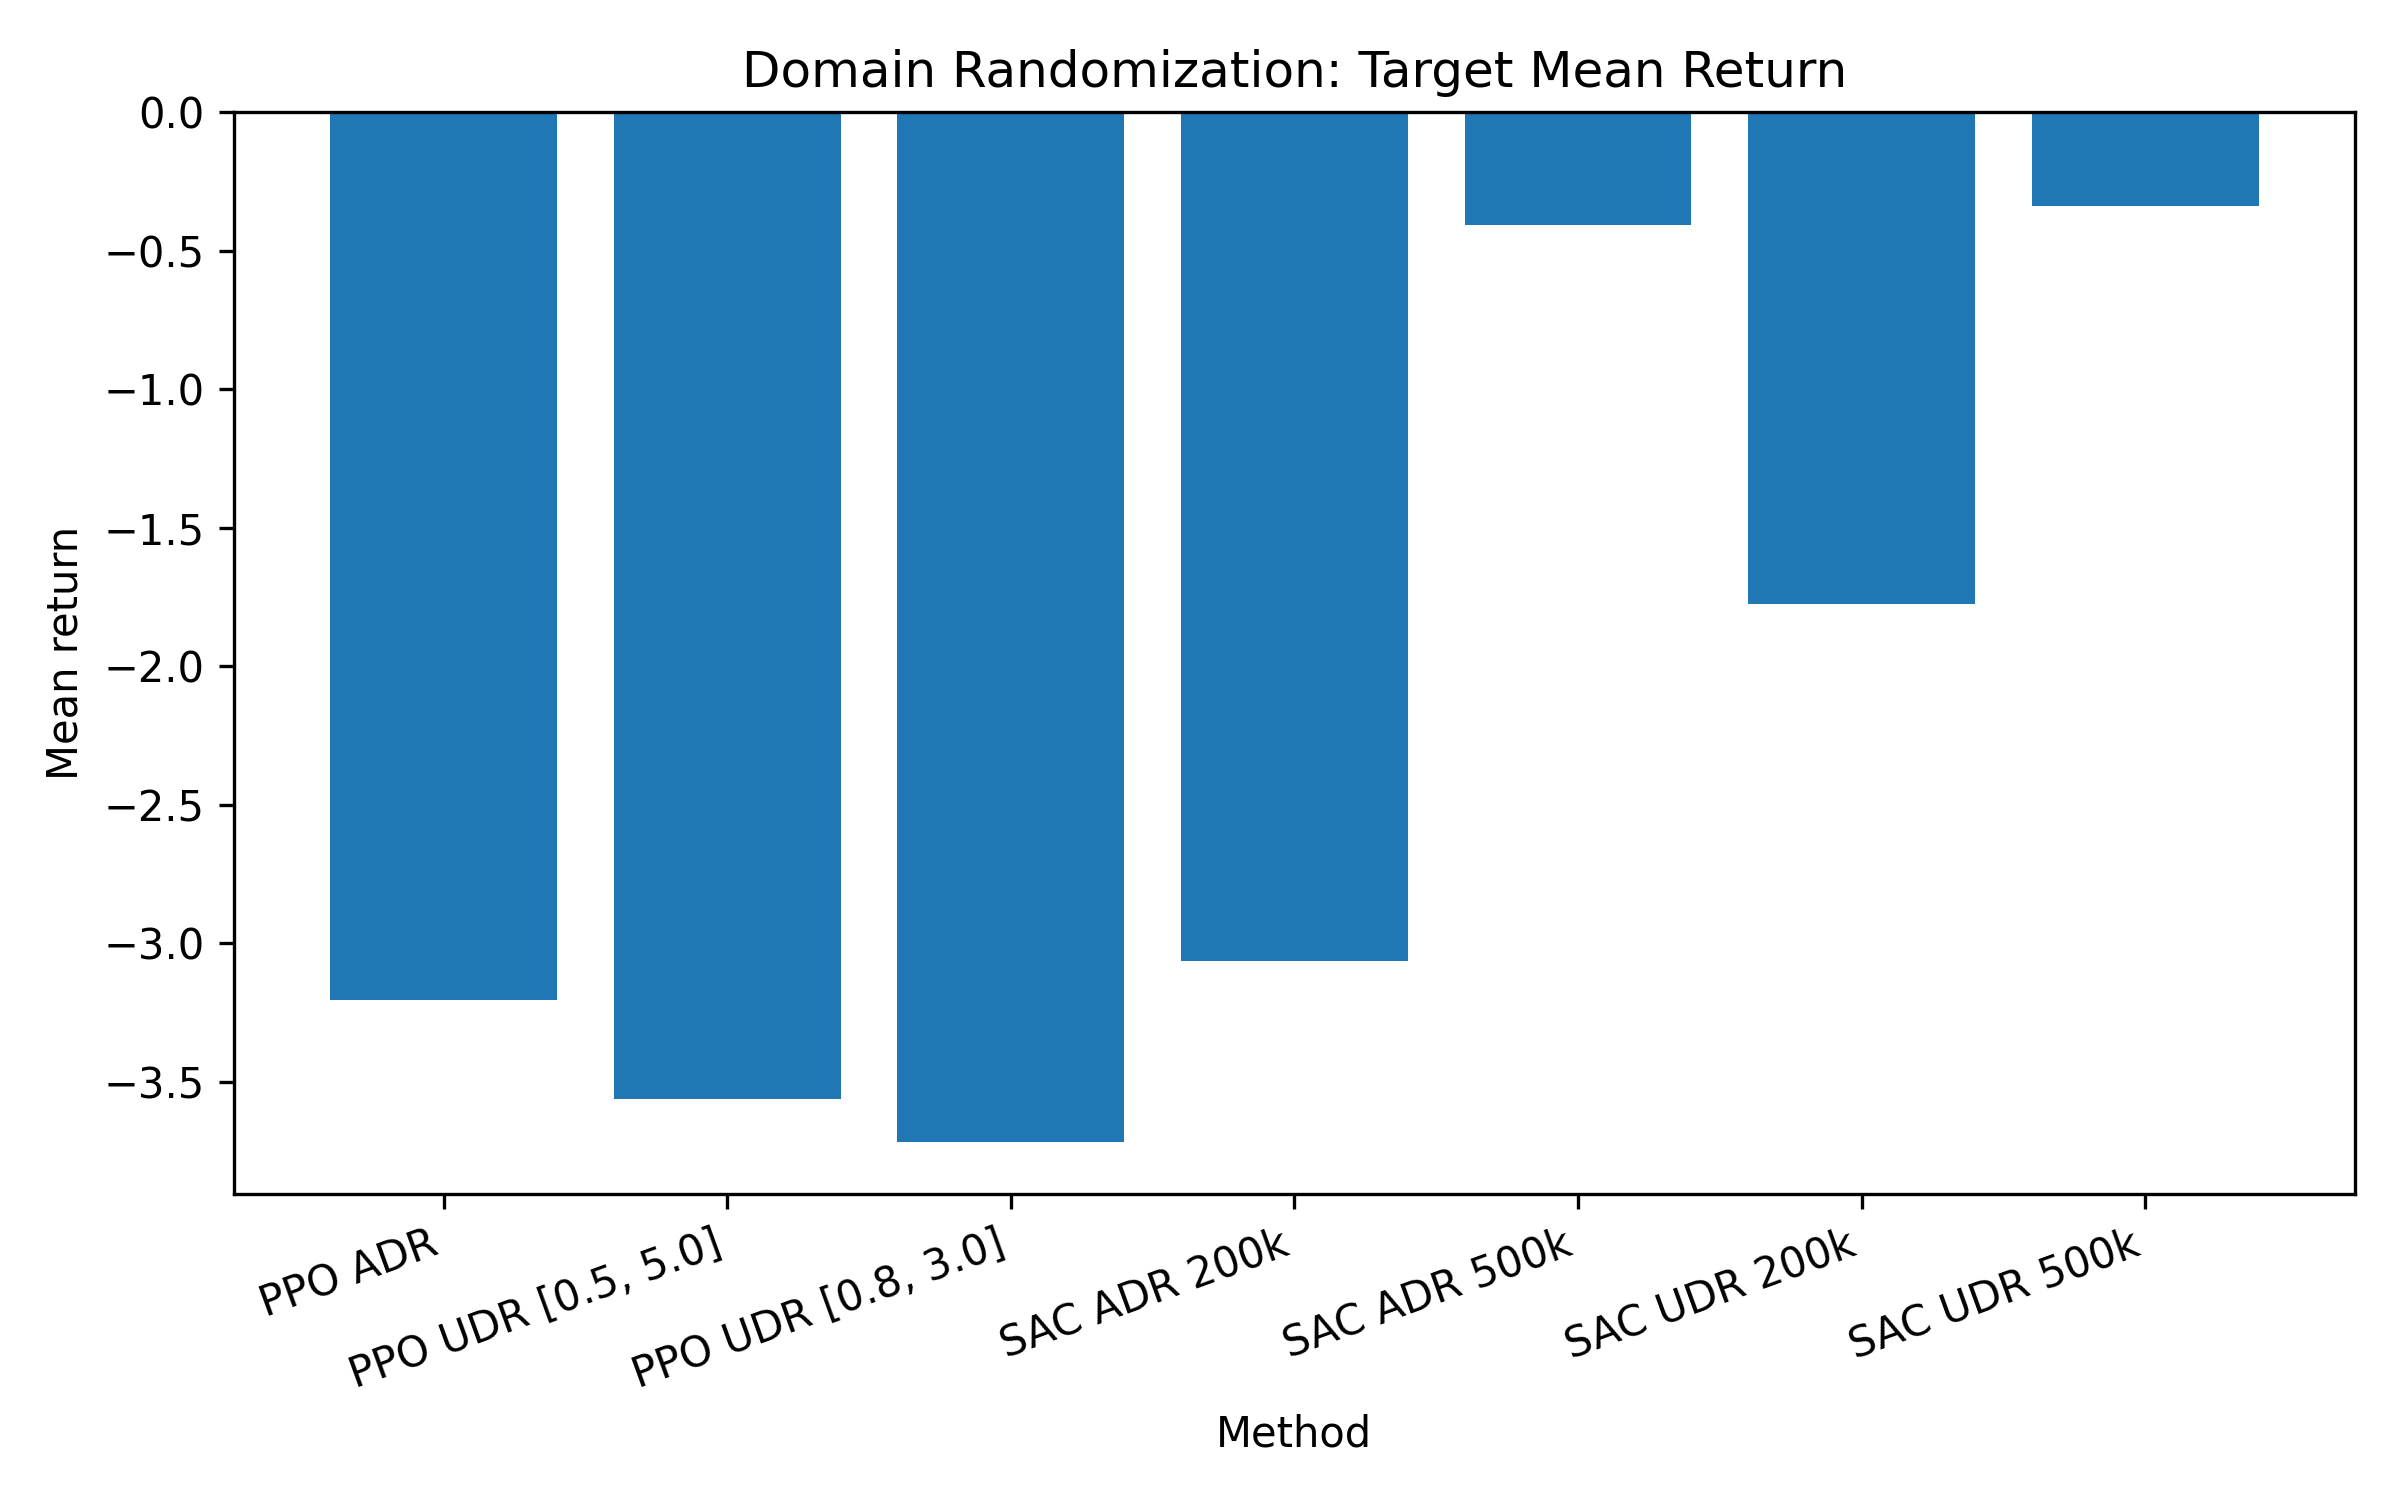
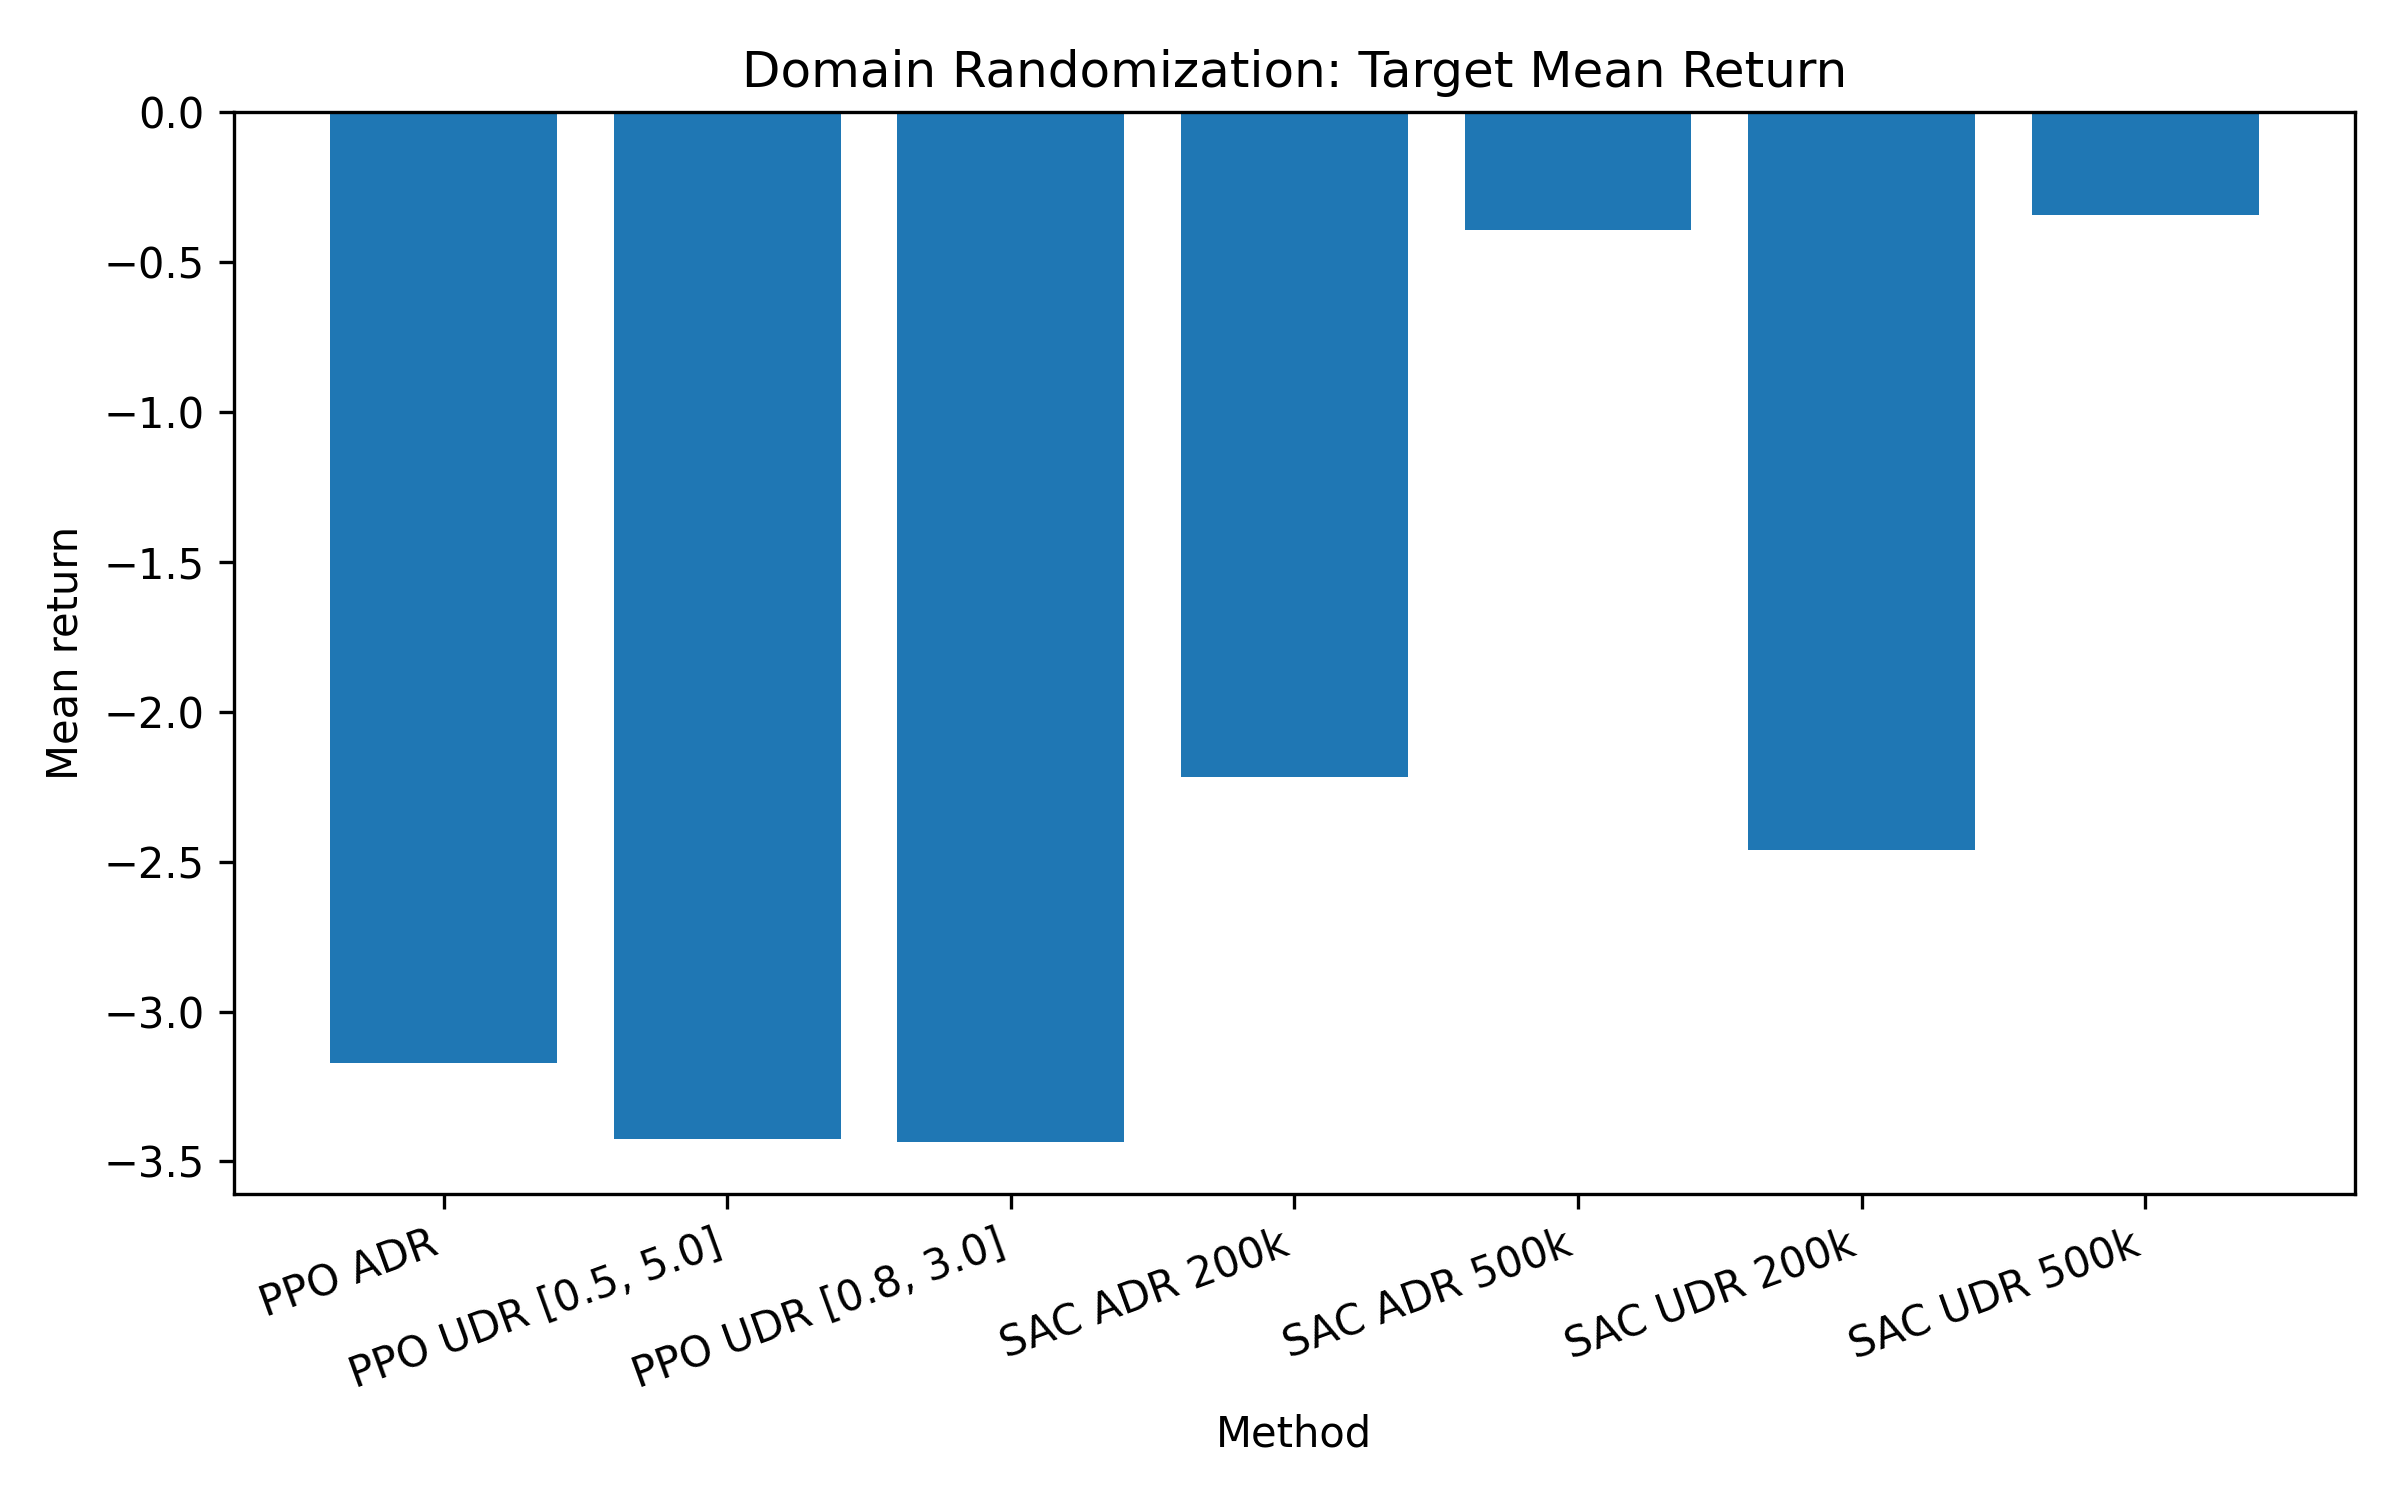
fix plot_result.py, make_report_assets.py, add missing trained models, run additional eval and mass robustness on SAC 500k only

diff --git a/make_report_assets.py b/make_report_assets.py
@@ -37,26 +37,20 @@ def label_for(name):
         return "SAC source to target"
     if "sac_none_target_to_target" in name:
         return "SAC target to target"
-    # if "ppo_udr" in name:
-    #     return "PPO UDR 200k"
-    # if "ppo_adr" in name:
-    #     return "PPO ADR 200k"
-    if "sac_udr_500k" in name:
-        return "SAC UDR 500k"
-    if "sac_adr_500k" in name:
-        return "SAC ADR 500k"
-    if "sac_adr_200k" in name:
-        return "SAC ADR 200k"
-    if "sac_udr" in name:
-        return "SAC UDR 200k"
-    # if "sac_adr" in name:
-    #     return "SAC ADR 200k (orig.)"
     if "udr_v2" in name:
         return "PPO UDR [0.8, 3.0]"
     if "udr_v3" in name:
         return "PPO UDR [0.5, 5.0]"
-    if "adr_v2" in name:
+    if "ppo_adr" in name or "adr_v2" in name:
         return "PPO ADR"
+    if "sac_udr_500k" in name:
+        return "SAC UDR 500k"
+    if "sac_udr" in name:
+        return "SAC UDR 200k"
+    if "sac_adr_500k" in name:
+        return "SAC ADR 500k"
+    if "sac_adr" in name:
+        return "SAC ADR 200k"
     return name
 
 
@@ -194,7 +188,7 @@ def part2_tables():
     df["mean_return"] = pd.to_numeric(df["mean_return"], errors="coerce")
     df["eval_mass"] = pd.to_numeric(df["eval_mass"], errors="coerce")
     df["label"] = df["experiment_name"].map(label_for)
-    df = df[~df["label"].str.contains("orig\.", na=False)]
+    df = df[~df["label"].str.contains(r"orig\.|ppo_udr_target_new", na=False)]
 
     lower_upper = df[
         df["experiment_name"].str.contains(

diff --git a/part2/plot_results.py b/part2/plot_results.py
@@ -26,24 +26,24 @@ def clean_label(name):
         return "SAC target->target"
     # if "ppo_udr" in name:
     #     return "PPO UDR 200k"
-    # if "ppo_adr" in name:
-    #     return "PPO ADR 200k"
-    if "sac_udr_500k" in name:
-        return "SAC UDR 500k"
-    if "sac_adr_500k" in name:
-        return "SAC ADR 500k"
-    if "sac_adr_200k" in name:
-        return "SAC ADR 200k"
-    if "sac_udr" in name:
-        return "SAC UDR 200k"
-    # if "sac_adr" in name:
-    #     return "SAC ADR 200k (orig.)"
     if "udr_v2" in name:
         return "PPO UDR [0.8, 3.0]"
     if "udr_v3" in name:
         return "PPO UDR [0.5, 5.0]"
-    if "adr_v2" in name:
-        return "PPO ADR adaptive"
+    if "ppo_adr" in name or "adr_v2" in name:
+        return "PPO ADR"
+    if "sac_udr_500k" in name:
+        return "SAC UDR 500k"
+    if "sac_udr" in name:
+        return "SAC UDR 200k"
+    if "sac_adr_500k" in name:
+        return "SAC ADR 500k"
+    if "sac_adr" in name:
+        return "SAC ADR 200k"
+    # if "sac_adr" in name:
+    #     return "SAC ADR 200k (orig.)"
+    # if "adr_v2" in name:
+    #     return "PPO ADR adaptive"
     return name
 
 
@@ -63,7 +63,7 @@ def main():
     ].copy()
 
     target_df["label"] = target_df["experiment_name"].apply(clean_label)
-    target_df = target_df[~target_df["label"].str.contains("orig\.", na=False)]
+    target_df = target_df[~target_df["label"].str.contains(r"orig\.|ppo_udr_target_new", na=False)]
 
     target_summary = (
         target_df
